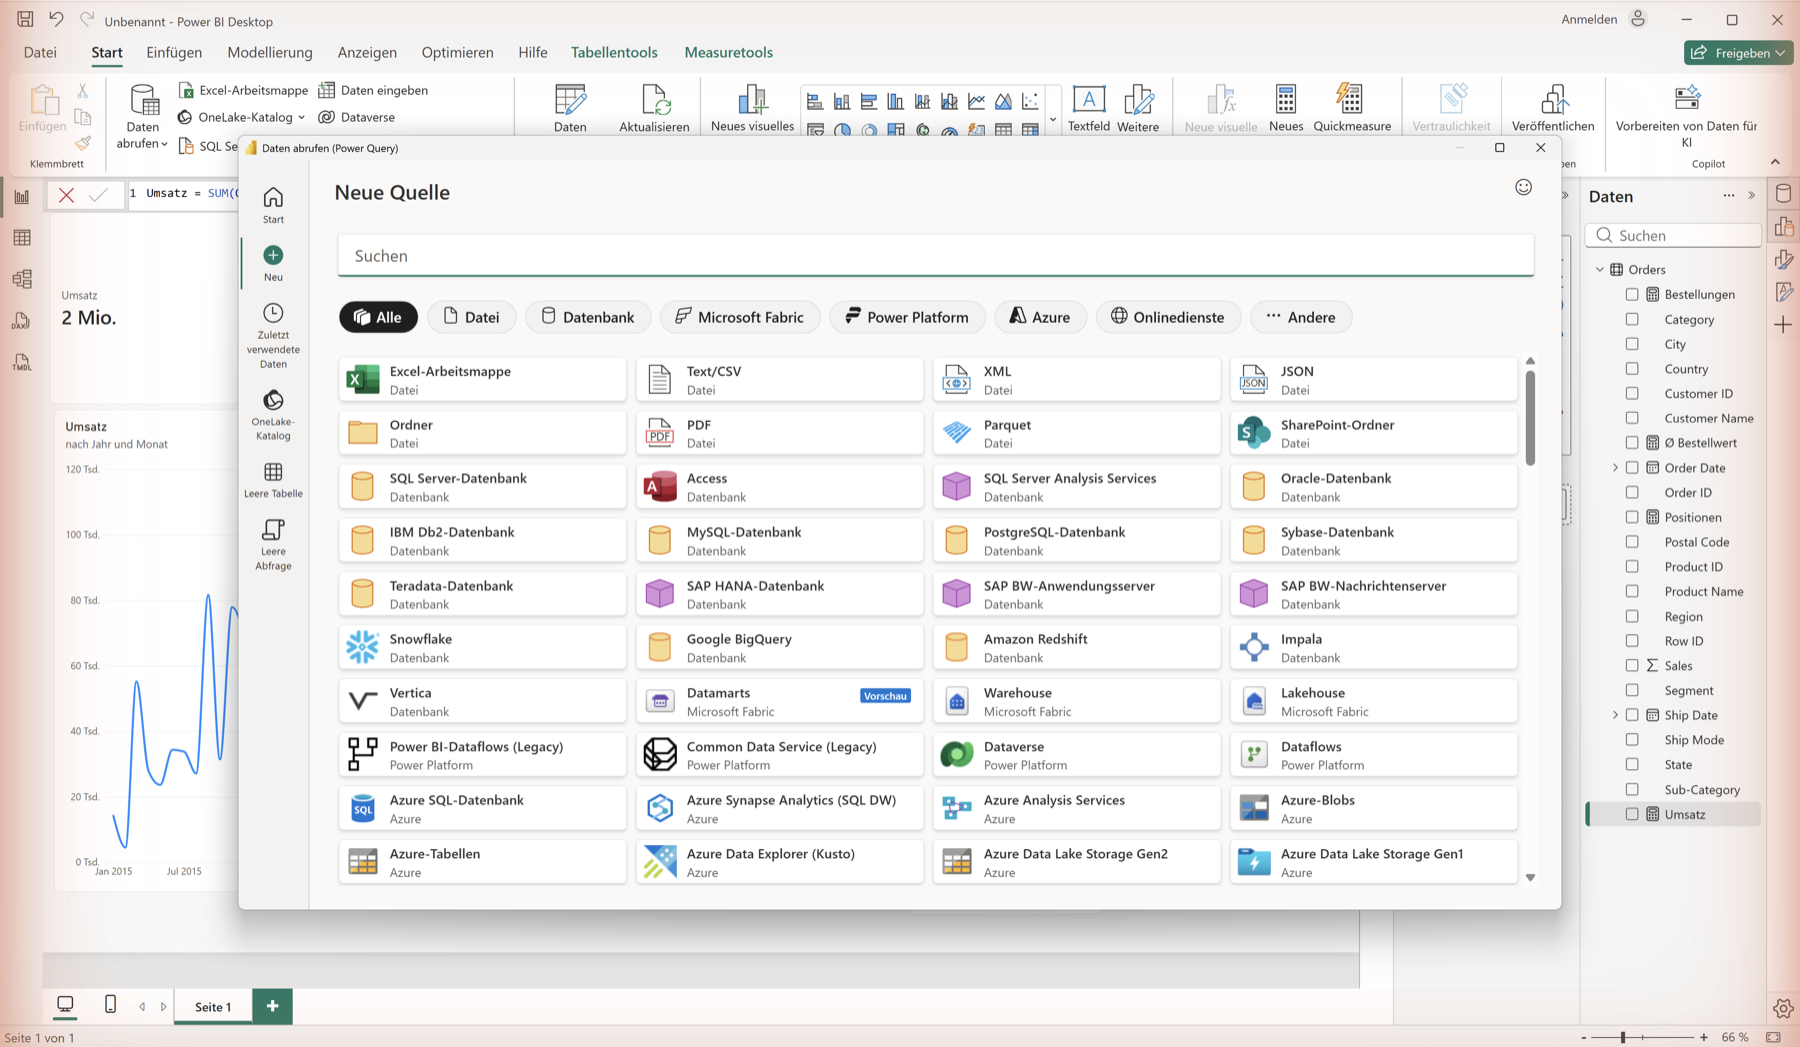
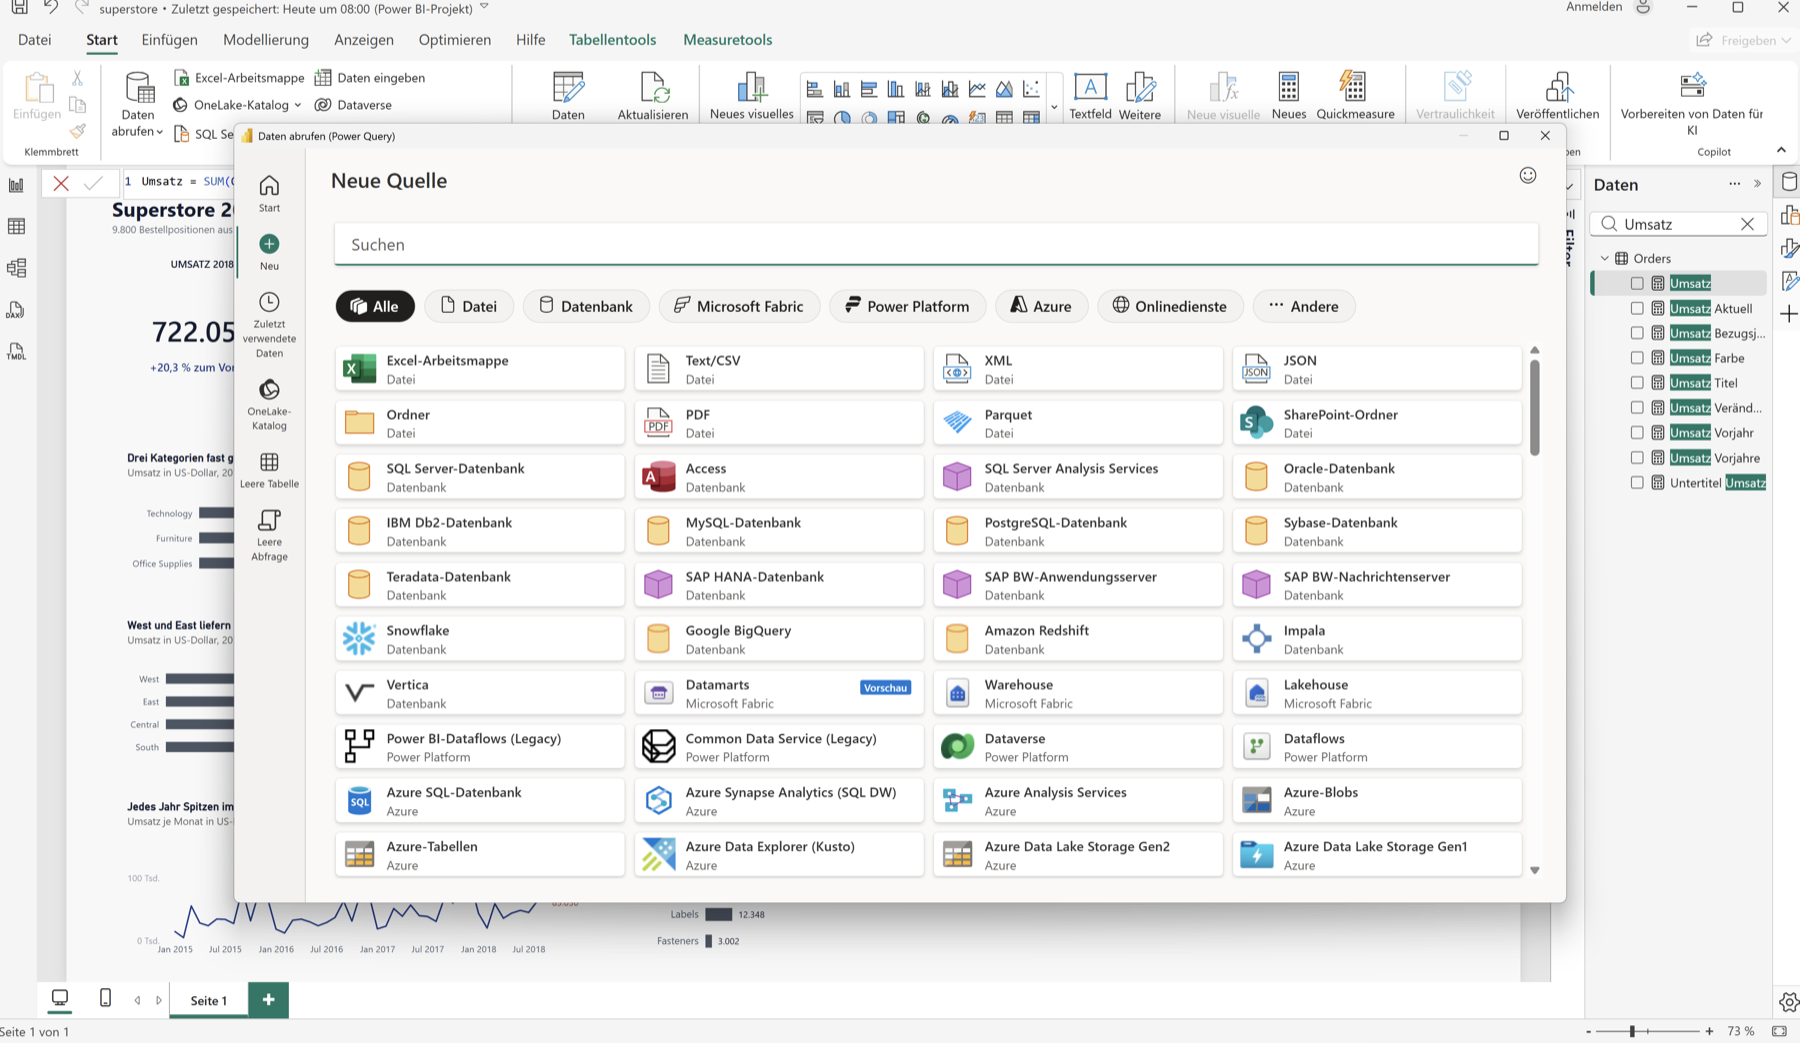
Power-BI-Schrittbilder (Neues Measure, Daten abrufen) mit dem aktuellen Bericht neu aufgenommen

Changed region(s): [[0.0, 0.0, 1.0, 1.0], [0.84, 0.3068, 0.8711, 0.4909]]

diff --git a/lab-05-fallstudie.html b/lab-05-fallstudie.html
@@ -193,7 +193,7 @@ print(f"Period:              {df['Order Date'].min():%d/%m/%Y} to {df['Order Dat
     <strong><span lang="de">CSV importieren</span><span lang="en">Import CSV</span></strong>
       <span><span lang="de">Start → Daten abrufen → Text/CSV → train.csv auswählen → Laden. Danach die Tabelle im Feldbereich von „train“ in „Orders“ umbenennen – die DAX-Measures in Schritt 3 referenzieren Orders. Ebenfalls wichtig: Order Date und Ship Date im Power Query Editor als Datum (TT/MM/JJJJ) typisieren.</span><span lang="en">Home → Get Data → Text/CSV → select train.csv → Load. Then rename the table in the Fields pane from “train” to “Orders” – the DAX measures in step 3 reference Orders. Also important: set Order Date and Ship Date to Date (DD/MM/YYYY) in the Power Query Editor.</span></span>
 <figure class="abbildung">
-      <img src="assets/img/powerbi-get-data.png" alt="Dialog „Neue Quelle“ in Power BI Desktop mit Kacheln für Excel-Arbeitsmappe, Text/CSV, XML, JSON, SQL Server und weitere Konnektoren" data-alt-en="The “New source” dialog in Power BI Desktop with tiles for Excel workbook, Text/CSV, XML, JSON, SQL Server and further connectors" width="1800" height="1047" loading="lazy" />
+      <img src="assets/img/powerbi-get-data.png" alt="Dialog „Neue Quelle“ in Power BI Desktop mit Kacheln für Excel-Arbeitsmappe, Text/CSV, XML, JSON, SQL Server und weitere Konnektoren" data-alt-en="The “New source” dialog in Power BI Desktop with tiles for Excel workbook, Text/CSV, XML, JSON, SQL Server and further connectors" width="1800" height="1043" loading="lazy" />
       <figcaption><span lang="de">Power BI Desktop: Start → Daten abrufen → Weitere … öffnet die Quellenauswahl mit den Konnektoren.</span><span lang="en">Power BI Desktop: Home → Get Data → More … opens the source selection with the connectors.</span></figcaption>
     </figure>
     </li>
@@ -444,8 +444,8 @@ Untertitel Umsatz =
 <p class="code-note"><span lang="de">Voraussetzung: train.csv ist importiert und die Tabelle in Orders umbenannt (Schritt 1). Sollwerte: Umsatz 2.261.536,78 · Bestellungen 4.922 · Positionen 9.800 · Ø Bestellwert 459,48 · YoY_Wachstum 2018 gegenüber 2017 rund 20,3 %.</span><span lang="en">Prerequisites: train.csv imported and the table renamed to Orders (step 1). Expected values: revenue 2,261,536.78 · orders 4,922 · line items 9,800 · average order value 459.48 · YoY growth 2018 over 2017 about 20.3%.</span></p>
 </div>
 <figure class="abbildung">
-      <img src="assets/img/powerbi-new-measure.png" alt="Power BI Desktop mit Measuretools und der Formelleiste Umsatz = SUM(Orders[Sales]); rechts der Feldbereich mit den Measures Bestellungen, Ø Bestellwert, Positionen und Umsatz" data-alt-en="Power BI Desktop with measure tools and the formula bar Umsatz = SUM(Orders[Sales]); on the right the field pane with the measures Bestellungen, Ø Bestellwert, Positionen and Umsatz" width="1800" height="1047" loading="lazy" />
-      <figcaption><span lang="de">Neues Measure: Die Formelleiste zeigt Umsatz = SUM(Orders[Sales]); das Measure erscheint danach im Feldbereich der Tabelle Orders.</span><span lang="en">New measure: the formula bar shows Umsatz = SUM(Orders[Sales]); the measure then appears in the field pane of the Orders table.</span></figcaption>
+      <img src="assets/img/powerbi-new-measure.png" alt="Power BI Desktop mit Measuretools und der Formelleiste Umsatz = SUM(Orders[Sales]); rechts der Datenbereich der Tabelle Orders, nach „Umsatz“ gefiltert, mit dem Measure Umsatz und den davon abgeleiteten Measures" data-alt-en="Power BI Desktop with measure tools and the formula bar Umsatz = SUM(Orders[Sales]); on the right the data pane of the Orders table, filtered for “Umsatz”, with the measure Umsatz and the measures derived from it" width="1800" height="1043" loading="lazy" />
+      <figcaption><span lang="de">Neues Measure: Die Formelleiste zeigt Umsatz = SUM(Orders[Sales]); das Measure erscheint danach im Datenbereich der Tabelle Orders; im Hintergrund der fertige Bericht aus Lab 05.</span><span lang="en">New measure: the formula bar shows Umsatz = SUM(Orders[Sales]); the measure then appears in the data pane of the Orders table; in the background the finished report from lab 05.</span></figcaption>
     </figure>
     </li>
     <li>

diff --git a/lab-03-kpis.html b/lab-03-kpis.html
@@ -94,8 +94,8 @@
 
     <h3>DAX Code</h3>
     <figure class="abbildung">
-      <img src="assets/img/powerbi-new-measure.png" alt="Power BI Desktop mit Measuretools und der Formelleiste Umsatz = SUM(Orders[Sales]); rechts der Feldbereich mit den Measures Bestellungen, Ø Bestellwert, Positionen und Umsatz" data-alt-en="Power BI Desktop with measure tools and the formula bar Umsatz = SUM(Orders[Sales]); on the right the field pane with the measures Bestellungen, Ø Bestellwert, Positionen and Umsatz" width="1800" height="1047" loading="lazy" />
-      <figcaption><span lang="de">Neues Measure: Die Formelleiste zeigt Umsatz = SUM(Orders[Sales]); das Measure erscheint danach im Feldbereich der Tabelle Orders.</span><span lang="en">New measure: the formula bar shows Umsatz = SUM(Orders[Sales]); the measure then appears in the field pane of the Orders table.</span></figcaption>
+      <img src="assets/img/powerbi-new-measure.png" alt="Power BI Desktop mit Measuretools und der Formelleiste Umsatz = SUM(Orders[Sales]); rechts der Datenbereich der Tabelle Orders, nach „Umsatz“ gefiltert, mit dem Measure Umsatz und den davon abgeleiteten Measures" data-alt-en="Power BI Desktop with measure tools and the formula bar Umsatz = SUM(Orders[Sales]); on the right the data pane of the Orders table, filtered for “Umsatz”, with the measure Umsatz and the measures derived from it" width="1800" height="1043" loading="lazy" />
+      <figcaption><span lang="de">Neues Measure: Die Formelleiste zeigt Umsatz = SUM(Orders[Sales]); das Measure erscheint danach im Datenbereich der Tabelle Orders; im Hintergrund der fertige Bericht aus Lab 05.</span><span lang="en">New measure: the formula bar shows Umsatz = SUM(Orders[Sales]); the measure then appears in the data pane of the Orders table; in the background the finished report from lab 05.</span></figcaption>
     </figure>
     <div class="codeblock" data-kind="concept" data-name="s1CodeDax">
 <pre class="code-block" lang="de">-- Einfache Aggregation

diff --git a/lab-02-daten.html b/lab-02-daten.html
@@ -87,7 +87,7 @@
       <p><span lang="de">In Power BI öffnet der Dialog „Daten abrufen“ (Start → Daten abrufen) eine Quellen-Auswahl mit über 100 Konnektoren. Nach der Verbindung öffnet sich der Power Query Editor zur Vorschau und Transformation.</span><span lang="en">In Power BI, the "Get Data" dialog (Home → Get Data) opens a source selection with over 100 connectors. After connecting, the Power Query Editor opens for preview and transformation.</span></p>
     </div>
     <figure class="abbildung">
-      <img src="assets/img/powerbi-get-data.png" alt="Dialog „Neue Quelle“ in Power BI Desktop mit Kacheln für Excel-Arbeitsmappe, Text/CSV, XML, JSON, SQL Server und weitere Konnektoren" data-alt-en="The “New source” dialog in Power BI Desktop with tiles for Excel workbook, Text/CSV, XML, JSON, SQL Server and further connectors" width="1800" height="1047" loading="lazy" />
+      <img src="assets/img/powerbi-get-data.png" alt="Dialog „Neue Quelle“ in Power BI Desktop mit Kacheln für Excel-Arbeitsmappe, Text/CSV, XML, JSON, SQL Server und weitere Konnektoren" data-alt-en="The “New source” dialog in Power BI Desktop with tiles for Excel workbook, Text/CSV, XML, JSON, SQL Server and further connectors" width="1800" height="1043" loading="lazy" />
       <figcaption><span lang="de">Power BI Desktop: Start → Daten abrufen → Weitere … öffnet die Quellenauswahl mit den Konnektoren.</span><span lang="en">Power BI Desktop: Home → Get Data → More … opens the source selection with the connectors.</span></figcaption>
     </figure>
     <figure class="abbildung">
